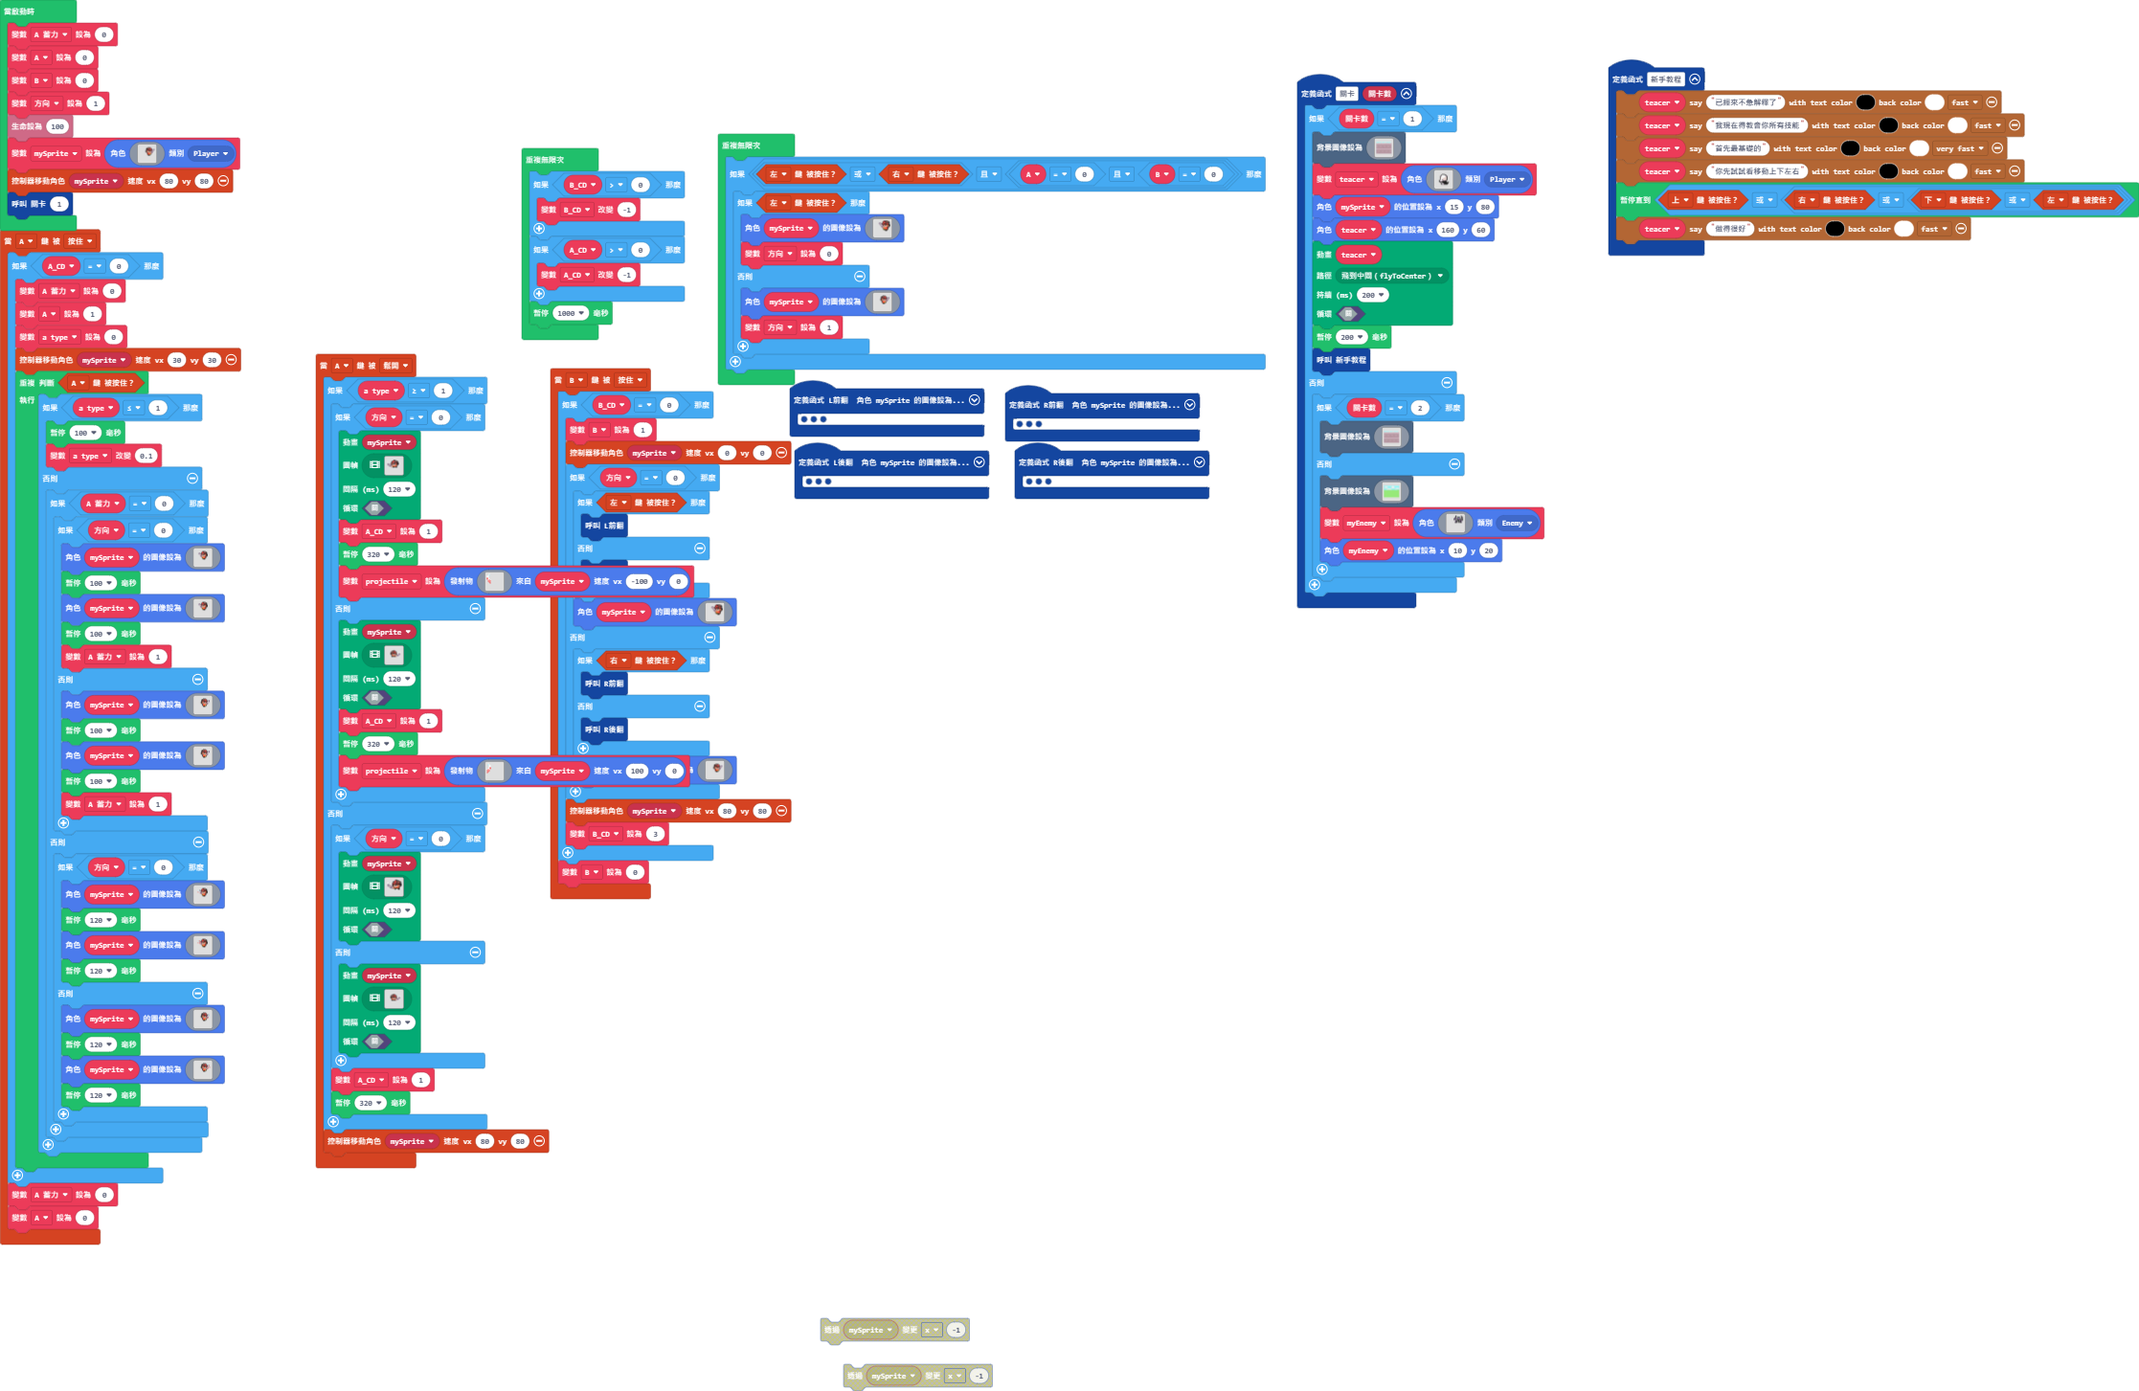
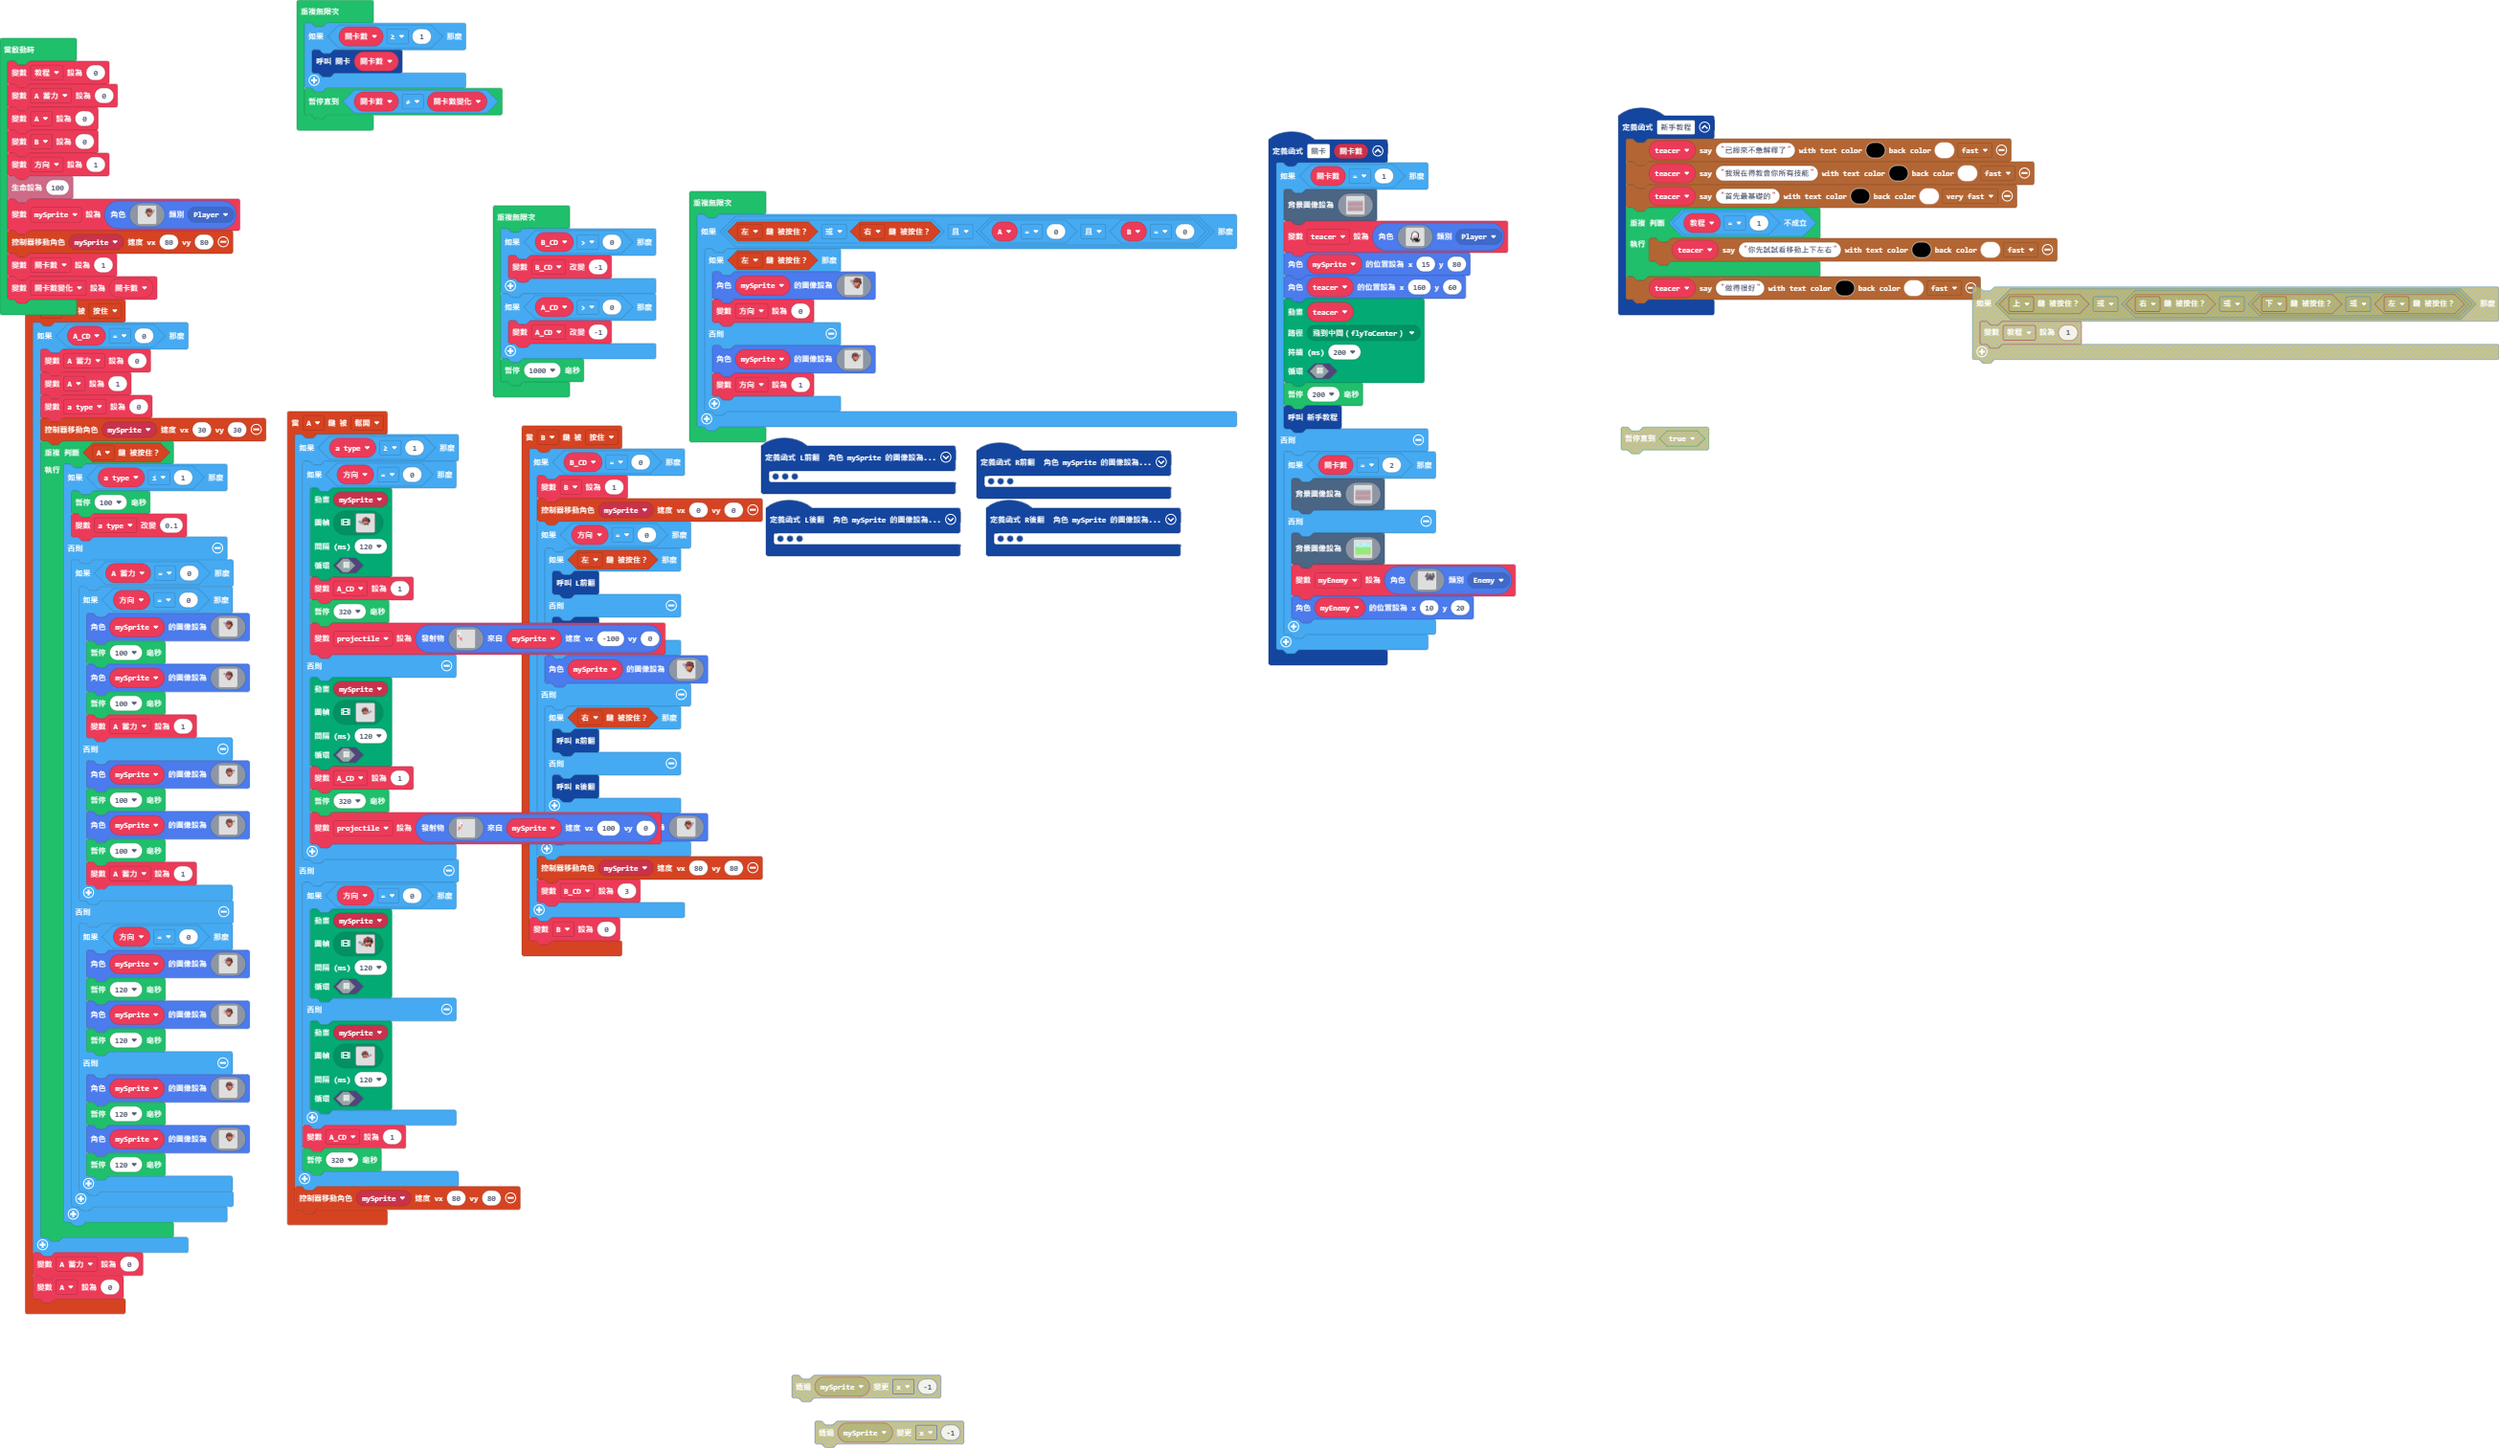
更新 main.blocks, main.ts

diff --git a/main.ts b/main.ts
@@ -905,8 +905,9 @@ function 新手教程 () {
     story.spriteSayText(teacer, "已經來不急解釋了", 15, 1, story.TextSpeed.Fast)
     story.spriteSayText(teacer, "我現在得教會你所有技能", 15, 1, story.TextSpeed.Fast)
     story.spriteSayText(teacer, "首先最基礎的", 15, 1, story.TextSpeed.VeryFast)
-    story.spriteSayText(teacer, "你先試試看移動上下左右", 15, 1, story.TextSpeed.Fast)
-    pauseUntil(() => controller.up.isPressed() || (controller.right.isPressed() || (controller.down.isPressed() || controller.left.isPressed())))
+    while (!(教程 == 1)) {
+        story.spriteSayText(teacer, "你先試試看移動上下左右", 15, 1, story.TextSpeed.Fast)
+    }
     story.spriteSayText(teacer, "做得很好", 15, 1, story.TextSpeed.Fast)
 }
 controller.B.onEvent(ControllerButtonEvent.Pressed, function () {
@@ -2608,6 +2609,8 @@ let 方向 = 0
 let B = 0
 let A = 0
 let A_蓄力 = 0
+let 教程 = 0
+教程 = 0
 A_蓄力 = 0
 A = 0
 B = 0
@@ -2640,7 +2643,14 @@ mySprite = sprites.create(img`
     ..............................
     `, SpriteKind.Player)
 controller.moveSprite(mySprite, 80, 80)
-關卡(1)
+let 關卡數 = 1
+let 關卡數變化 = 關卡數
+forever(function () {
+    if (關卡數 >= 1) {
+        關卡(關卡數)
+    }
+    pauseUntil(() => 關卡數 != 關卡數變化)
+})
 forever(function () {
     if ((controller.left.isPressed() || controller.right.isPressed()) && (A == 0 && B == 0)) {
         if (controller.left.isPressed()) {
